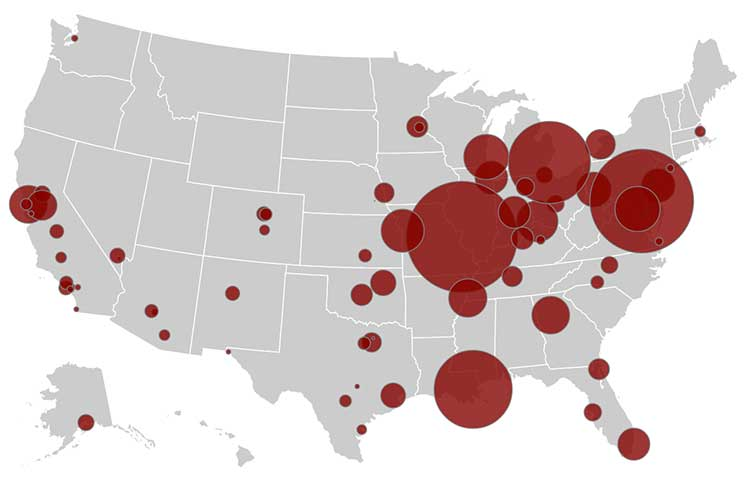
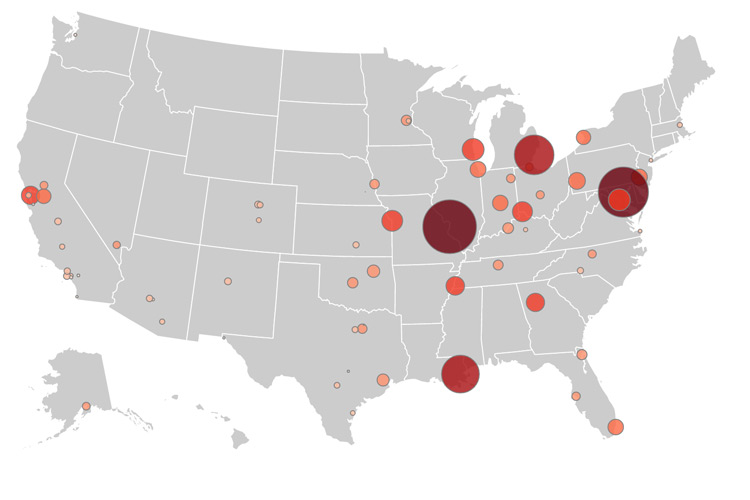
add colorScale

diff --git a/docs/assets/widgets/crime/index.js b/docs/assets/widgets/crime/index.js
@@ -1,1 +1,1 @@
-function dataReady(e,t,r,a){if(e)throw e;_crime=a,_cities=t,_states=r,t.map(function(e){var t=a.find(function(t){return e.NAME===t.city});return t&&(e.pop_2015=t.pop_2015,e.murder=t.murder,e.murder_rate=t.murder_rate),e}),renderMap(_cities,_states,_crime)}function drawMapCircles(e){var t=svg.selectAll("circle").data(e).enter().append("g").attr("transform",function(e){return"translate("+projection([e.longitude,e.latitude])+")"}).attr("class","city");t.append("circle").style("fill","#820505").style("stroke","grey").style("fill-opacity",.8).attr("r",function(e){return console.log(e.NAME+","+Math.round(e.murder_rate)),e.murder_rate?e.murder_rate:0}).on("mouseover",function(){var e=d3.select(this).text();d3.select("#panel").text(e)}).append("title").text(function(e){return e.NAME+" -\nMurders: "+e.murder+" ("+ +Math.round(e.murder_rate)+" for every 100k),\n2015 Population: "+e.pop_2015})}function renderMap(e,t,r){svg.selectAll("*").remove(),e=e.filter(function(e){return projection([e.longitude,e.latitude])}),svg.selectAll(".states").data(topojson.feature(t,t.objects.states).features).enter().append("path").attr("class","states").attr("d",path),drawMapCircles(e)}var svg=d3.select(".svg-container").append("svg").attr("xmlns","http://www.w3.org/2000/svg").attr("version","1.1").attr("viewBox","0 0 900 500").attr("preserveAspectRatio","xMidYMid meet"),projection=d3.geoAlbersUsa(),path=d3.geoPath().projection(projection);d3.queue().defer(d3.csv,"../cities-over-250k.csv").defer(d3.json,"../us-states-simplified.json").defer(d3.csv,"crime-in-us-2015.csv").await(dataReady);var _cities={},_states={},_crime={};
+function dataReady(e,t,r,a){if(e)throw e;_crime=a,_cities=t,_states=r,t.map(function(e){var t=a.find(function(t){return e.NAME===t.city});return t&&(e.pop_2015=t.pop_2015,e.murder=t.murder,e.murder_rate=t.murder_rate),e}),renderMap(_cities,_states,_crime)}function drawMapCircles(e){var t=svg.selectAll("circle").data(e).enter().append("g").attr("transform",function(e){return"translate("+projection([e.longitude,e.latitude])+")"}).attr("class","city");t.append("circle").style("fill",function(e){return colorScale(e.murder_rate)}).style("stroke","grey").style("fill-opacity",.8).attr("r",function(e){return e.murder_rate?.5*e.murder_rate:0}).on("mouseover",function(){var e=d3.select(this).text();d3.select("#panel").text(e)}).append("title").text(function(e){return e.NAME+" -\nMurders: "+e.murder+" ("+ +Math.round(e.murder_rate)+" for every 100k),\n2015 Population: "+e.pop_2015})}function renderMap(e,t,r){svg.selectAll("*").remove(),e=e.filter(function(e){return projection([e.longitude,e.latitude])}),svg.selectAll(".states").data(topojson.feature(t,t.objects.states).features).enter().append("path").attr("class","states").attr("d",path),drawMapCircles(e)}var svg=d3.select(".svg-container").append("svg").attr("xmlns","http://www.w3.org/2000/svg").attr("version","1.1").attr("viewBox","0 0 900 500").attr("preserveAspectRatio","xMidYMid meet"),projection=d3.geoAlbersUsa(),path=d3.geoPath().projection(projection),colorScale=d3.scaleThreshold().domain([1,4,8,15,20,30,40,50,60]).range(["rgb(255,245,240)","rgb(254,224,210)","rgb(252,187,161)","rgb(252,146,114)","rgb(251,106,74)","rgb(239,59,44)","rgb(203,24,29)","rgb(165,15,21)","rgb(103,0,13)"]);d3.queue().defer(d3.csv,"../cities-over-250k.csv").defer(d3.json,"../us-states-simplified.json").defer(d3.csv,"crime-in-us-2015.csv").await(dataReady);var _cities={},_states={},_crime={};

diff --git a/src/assets/widgets/crime/index.js b/src/assets/widgets/crime/index.js
@@ -8,6 +8,20 @@ var svg = d3.select('.svg-container').append('svg')
 var projection = d3.geoAlbersUsa();
 var path = d3.geoPath().projection(projection);
 
+var colorScale = d3.scaleThreshold()
+  .domain([1,4,8,15,20,30,40,50,60])
+  .range([
+    'rgb(255,245,240)',
+		'rgb(254,224,210)',
+		'rgb(252,187,161)',
+		'rgb(252,146,114)',
+		'rgb(251,106,74)',
+		'rgb(239,59,44)',
+		'rgb(203,24,29)',
+		'rgb(165,15,21)',
+		'rgb(103,0,13)',
+  	]);
+
 d3.queue()
 .defer(d3.csv, '../cities-over-250k.csv')
 .defer(d3.json, '../us-states-simplified.json')
@@ -28,9 +42,7 @@ function dataReady(error, cities, states, crime) {
     });
 
     if (crimeCity) {
-      //console.log(crimeCity.city, crimeCity.murder);
       row.pop_2015 = crimeCity.pop_2015;
-      //row.pop_1950 = crimeCity.pop_1950;
       row.murder = crimeCity.murder;
       row.murder_rate = crimeCity.murder_rate;
     }
@@ -53,12 +65,14 @@ function drawMapCircles(cities) {
 
   circleGroup
     .append('circle')
-    .style("fill", "#820505")
-    .style("stroke", "grey")
+    .style('fill', function (d) {
+      return colorScale(d.murder_rate);
+    })
+    .style('stroke', 'grey')
     .style('fill-opacity', .8)
 		.attr('r', function (d) {
-      console.log(d.NAME+','+ Math.round(d.murder_rate));
-		  return d.murder_rate ? d.murder_rate : 0;
+      //console.log(d.NAME+','+ Math.round(d.murder_rate));
+		  return d.murder_rate ? (d.murder_rate * 0.5) : 0;
 		})
     .on('mouseover', function () {
       var html = d3.select(this).text();
